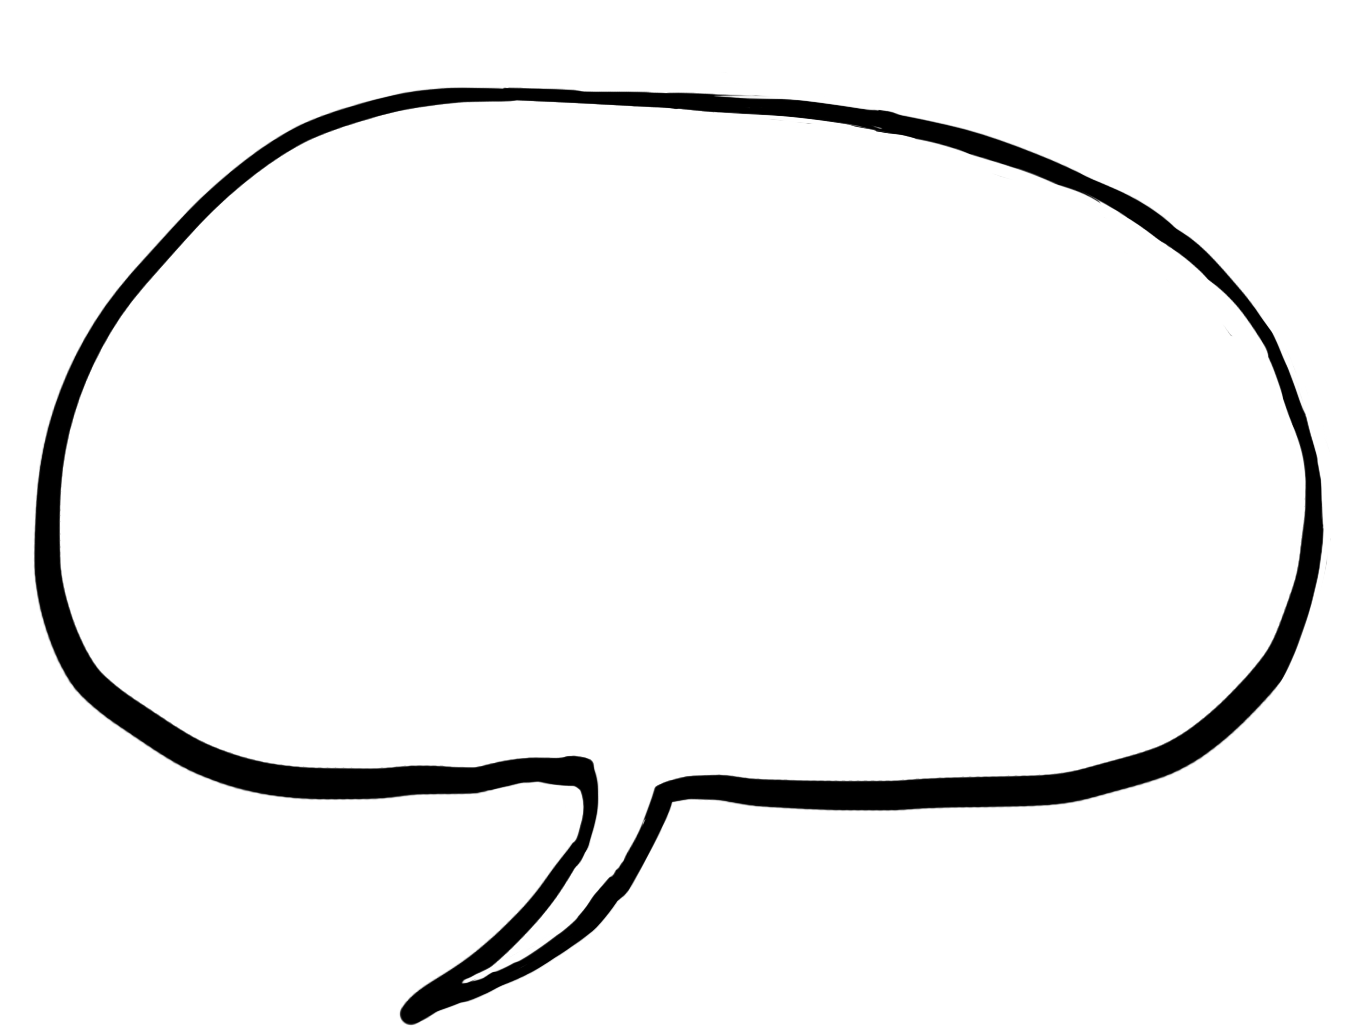
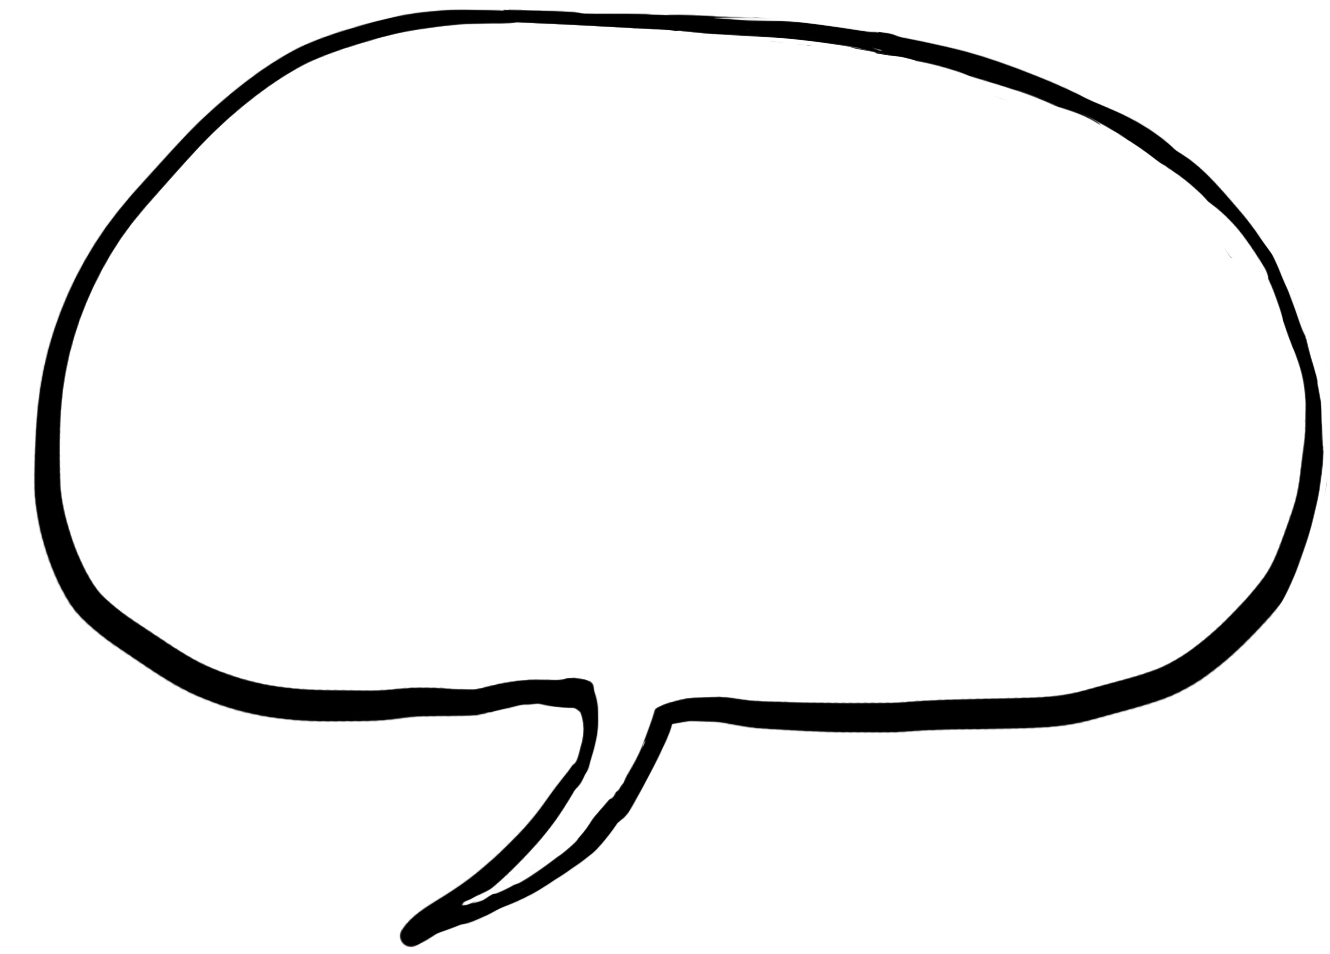
fix design

diff --git a/src/app/(pages)/about/page.tsx b/src/app/(pages)/about/page.tsx
@@ -1,153 +1,88 @@
 'use client';
 
-import Image from 'next/image';
-import { useEffect, useRef } from 'react';
+import Image, { ImageProps } from 'next/image';
+import { useEffect, useRef, useState } from 'react';
 import { useTranslation, Trans } from 'react-i18next';
 import removeContextMenu from '../../../utils/removeContextMenu';
+import StaticImageSlider from '@/components/StaticImageSlider';
+import useViewportWidth from '@/hooks/useViewportWidth';
+import { mobileBreakpoint } from '@/config/config';
 
-const dwarfCtnTop = 40;
-const dwarfCtnHeight = 2000;
-const bubbleWrapperHeight = 1000;
-const bubbleHeight = 400;
-const bubbleTop = 10;
-const bubble2CtnTop = bubbleWrapperHeight;
-const mainCtnHeight = bubbleWrapperHeight * 2 + bubbleHeight;
+interface aboutSectionDrawsType extends ImageProps {
+  text: React.ReactNode;
+}
+
+const aboutSectionDraws: aboutSectionDrawsType[] = [
+  {
+    src: '/about/lutin.png',
+    alt: 'lutin poilu au chapeau pointu tenant un crayon',
+    width: 1323,
+    height: 1389,
+    text: (
+      <Trans
+        i18nKey="common:about.bubble1"
+        components={{ break: <br />, strong: <strong /> }}
+      />
+    ),
+  },
+  {
+    src: '/about/lutin.png',
+    alt: 'lutin poilu au chapeau pointu tenant un crayon',
+    width: 1323,
+    height: 1389,
+    text: (
+      <Trans
+        i18nKey="common:about.bubble2"
+        components={{ strong: <strong /> }}
+      />
+    ),
+  },
+];
 
 const About: React.FC = () => {
-  const bubble1Ref = useRef<HTMLDivElement | null>(null);
-  const bubble2Ref = useRef<HTMLDivElement | null>(null);
-  const dwarfRef = useRef<HTMLDivElement | null>(null);
-
   useTranslation();
+  const windowWidth = useViewportWidth();
 
-  useEffect(() => {
-    const observer = new IntersectionObserver(
-      (entries) => {
-        entries.forEach((entry, i) => {
-          if (entry.isIntersecting) {
-            entry.target.classList.add('in-view');
-          } else {
-            entry.target.classList.remove('in-view');
-          }
-          if (dwarfRef.current) {
-            if (bubble1Ref.current?.classList.contains('in-view')) {
-              dwarfRef.current.classList.remove('dwarf-right');
-              dwarfRef.current.classList.add('dwarf-left');
-            }
-            if (bubble2Ref.current?.classList.contains('in-view')) {
-              dwarfRef.current.classList.remove('dwarf-left');
-              dwarfRef.current.classList.add('dwarf-right');
-            }
-            if (
-              !bubble1Ref.current?.classList.contains('in-view') &&
-              !bubble2Ref.current?.classList.contains('in-view')
-            ) {
-              dwarfRef.current.classList.remove('dwarf-left');
-              dwarfRef.current.classList.remove('dwarf-right');
-            }
-          }
-        });
-      },
-      // { root: null, rootMargin: '-10% 100% -40% 100%', threshold: 1.0 }
-      { root: null, rootMargin: '0% 100% -20% 100%', threshold: 1.0 }
+  const drawsComponents = aboutSectionDraws.map((draw, i) => {
+    return (
+      <div className="h-full relative flex lg:justify-center items-end">
+        <Image
+          key={i}
+          {...draw}
+          // className="size-full object-contain"
+          className="h-[45%] sm:h-2/3 w-auto"
+          onContextMenu={removeContextMenu}
+          quality={100}
+        />
+        <div className="absolute top-0 right-0 w-[380px] sm:w-[450px] lg:w-[400px] h-[280px] sm:h-[330px] lg:h-[300px] px-4 sm:px-6 pb-24 pt-9 sm:pt-7 flex justify-center items-center bg-[url('/about/bulle1.png')] bg-contain bg-center bg-no-repeat">
+          <p className="licorice-font text-3xl sm:text-4xl lg:text-3xl font-semibold text-center text-pretty">
+            {draw.text}
+          </p>
+        </div>
+      </div>
     );
-
-    if (bubble1Ref.current) {
-      observer.observe(bubble1Ref.current);
-    }
-    if (bubble2Ref.current) {
-      observer.observe(bubble2Ref.current);
-    }
-
-    return () => {
-      if (bubble1Ref.current) {
-        observer.unobserve(bubble1Ref.current);
-      }
-      if (bubble2Ref.current) {
-        observer.unobserve(bubble2Ref.current);
-      }
-    };
-  }, []);
+  });
 
   return (
-    <div
-      className="relative flex justify-center"
-      style={{
-        height: `${mainCtnHeight}px`,
-      }}
-    >
-      <div
-        ref={dwarfRef}
-        className="absolute w-1/4 min-w-60 max-w-80 flex justify-center transition-transform duration-300"
-        style={{
-          top: `${dwarfCtnTop}vh`,
-          height: `${dwarfCtnHeight}px`,
-        }}
-      >
-        <div
-          className="sticky h-96 flex justify-center items-center"
-          style={{
-            top: `${dwarfCtnTop}vh`,
-          }}
-        >
-          <Image
-            src="/about/lutin.png"
-            alt="lutin poilu au chapeau pointu tenant un crayon"
-            width={1323}
-            height={1389}
-            className="size-full object-contain"
-            onContextMenu={removeContextMenu}
-          />
-        </div>
-      </div>
-      <div
-        className="absolute right-64 sm:right-40 lg:right-20 xl:right-0 w-1/2"
-        style={{
-          top: `${bubbleTop}vh`,
-          height: `${bubbleWrapperHeight}px`,
-        }}
-      >
-        {/* translate-x-12 */}
-        <div
-          ref={bubble1Ref}
-          className="sticky out-view w-[524px] scale-bubble mr-auto px-20 pt-20 pb-28 xl:px-16 xl:pt-12 flex justify-center items-center bg-[url('/about/bulle1.png')] bg-contain bg-center bg-no-repeat"
-          style={{ top: `${bubbleTop}vh`, height: `${bubbleHeight}px` }}
-        >
-          <p className="licorice-font text-4.5xl xl:text-4xl font-semibold text-center text-pretty">
-            <Trans
-              i18nKey="common:about.bubble1"
-              components={{ break: <br />, strong: <strong /> }}
-            />
-          </p>
-        </div>
-      </div>
-      <div
-        className="absolute -left-32 sm:left-0 w-[95%] sm:w-1/2"
-        style={{
-          top: `${bubble2CtnTop}px`,
-          height: `${bubbleWrapperHeight}px`,
-        }}
-      >
-        {/* -translate-x-40 */}
-        <div
-          ref={bubble2Ref}
-          className="sticky out-view w-[538px] scale-bubble ml-auto px-12 pt-16 pb-28 flex justify-center items-center bg-[url('/about/bulle2.png')] bg-contain bg-center bg-no-repeat"
-          style={{ top: `${bubbleTop}vh`, height: `${bubbleHeight}px` }}
-        >
-          <p className="licorice-font text-4.5xl xl:text-4xl font-semibold text-center text-pretty">
-            <Trans
-              i18nKey="common:about.bubble2"
-              components={{ strong: <strong /> }}
-            />
-          </p>
-        </div>
+    <div className="relative flex-1 max-sm:flex max-sm:flex-col">
+      <h1 className="text-6xl sm:text-6.5xl xl:text-7xl inspiration-font thickening-2 max-sm:ml-10">
+        Qui suis je ?
+      </h1>
+      <div className="relative sm:absolute sm:top-0 sm:left-1/2 sm:-translate-x-1/2 max-sm:flex-1 sm:h-full flex justify-center items-center">
+        {aboutSectionDraws.length > 0 && (
+          <StaticImageSlider
+            className="w-screen lg:w-[1000px] h-[430px] sm:h-[550px] lg:h-[430px]"
+            isArrowsVisible={aboutSectionDraws.length > 1}
+            arrowsPosition={
+              windowWidth < mobileBreakpoint ? 'under' : 'lateral'
+            }
+          >
+            {drawsComponents}
+          </StaticImageSlider>
+        )}
       </div>
     </div>
   );
 };
 
 export default About;
-
-// Pour la div contenant le background bulle, mettre des dimensions en px (ou em?) qui correspondent à l'aspect ratio de la bulle
-// Background bulle bg-contain
-// Top en vh pour que les éléments soient tjs à la même hauteur quelle que soit la hauteur de l'écran

diff --git a/src/components/StaticImageSlider.tsx b/src/components/StaticImageSlider.tsx
@@ -1,0 +1,65 @@
+import React, { useState } from 'react';
+import ArrowBtn from './ArrowBtn';
+
+type StaticImageSliderProps = {
+  children: React.ReactNode;
+  className?: string;
+  isArrowsVisible?: boolean;
+  arrowsPosition?: 'lateral' | 'under';
+};
+
+const StaticImageSlider: React.FC<StaticImageSliderProps> = ({
+  children,
+  className = '',
+  isArrowsVisible = true,
+  arrowsPosition = 'lateral',
+}) => {
+  const [activeIndex, setActiveIndex] = useState(0);
+  const totalSlides = React.Children.count(children);
+
+  const handleNext = () => setActiveIndex((prev) => (prev + 1) % totalSlides);
+  const handlePrev = () =>
+    setActiveIndex((prev) => (prev - 1 + totalSlides) % totalSlides);
+
+  return (
+    <div className={`flex items-center justify-between`}>
+      {/* Left arrow */}
+      {isArrowsVisible && (
+        <ArrowBtn
+          onClick={handlePrev}
+          className={`${
+            arrowsPosition === 'under' ? 'absolute bottom-0 left-1/4' : ''
+          } w-[10%] h-20 flex items-center justify-center opacity-70 transition hover:scale-110 hover:opacity-90 duration-300 cursor-pointer`}
+          ariaLabel="Previous slide"
+        />
+      )}
+
+      <div className={`${className}`}>
+        {React.Children.map(children, (child, index) => (
+          <div
+            className={`${arrowsPosition === 'under' ? 'h-[90%]' : 'h-full'}`}
+            style={{
+              display: index === activeIndex ? 'block' : 'none',
+              transition: 'opacity 0.5s ease-in-out',
+            }}
+          >
+            {child}
+          </div>
+        ))}
+      </div>
+
+      {/* Right arrow */}
+      {isArrowsVisible && (
+        <ArrowBtn
+          onClick={handleNext}
+          className={`${
+            arrowsPosition === 'under' ? 'absolute bottom-0 right-1/4' : ''
+          } w-[10%] h-20 rotate-180 flex items-center justify-center opacity-70 transition hover:scale-110 hover:opacity-90 duration-300 cursor-pointer`}
+          ariaLabel="Previous slide"
+        />
+      )}
+    </div>
+  );
+};
+
+export default StaticImageSlider;

diff --git a/src/components/GallerySlider.tsx b/src/components/GallerySlider.tsx
@@ -1,17 +1,10 @@
-import Image from 'next/image';
+import Image, { ImageProps } from 'next/image';
 import { useState } from 'react';
 import Loader from './Loader';
 import removeContextMenu from '../utils/removeContextMenu';
 
-type DrawType = {
-  src: string;
-  alt: string;
-  width: number;
-  height: number;
-};
-
 type GallerySliderProps = {
-  activeDraw: DrawType;
+  activeDraw: ImageProps;
   slideDuration?: number;
   changePrevIdx: () => void;
   changeNextIdx: () => void;
@@ -55,8 +48,8 @@ const GallerySlider: React.FC<GallerySliderProps> = ({
         className="w-[10%] rotate-180 bg-[length:45px_45px] bg-no-repeat bg-center transition-opacity opacity-60 hover:opacity-100 duration-300 cursor-pointer"
         style={{ backgroundImage: `url(${arrowIconUri})` }}
         onClick={() => handlePrev()}
-        aria-label="next image"
-      ></button>
+        aria-label="prev image"
+      />
       <div
         className={`w-4/5 my-8 transition ${`duration-${slideDuration}`} ${
           isTransitioning ? 'opacity-0' : 'opacity-100'
@@ -75,7 +68,7 @@ const GallerySlider: React.FC<GallerySliderProps> = ({
         style={{ backgroundImage: `url(${arrowIconUri})` }}
         onClick={() => handleNext()}
         aria-label="next image"
-      ></button>
+      />
     </div>
   );
 };

diff --git a/src/components/ArrowBtn.tsx b/src/components/ArrowBtn.tsx
@@ -1,0 +1,50 @@
+import React from 'react';
+
+interface ArrowBtnProps extends React.ButtonHTMLAttributes<HTMLButtonElement> {
+  ariaLabel: string;
+}
+
+const ArrowBtn: React.FC<ArrowBtnProps> = ({
+  onClick,
+  ariaLabel,
+  className,
+  ...rest
+}) => {
+  return (
+    <button
+      onClick={onClick}
+      className={className}
+      aria-label={ariaLabel}
+      {...rest}
+    >
+      <svg
+        xmlns="http://www.w3.org/2000/svg"
+        viewBox="0 0 100 60"
+        fill="none"
+        stroke="#555555"
+        strokeWidth="3"
+        strokeLinecap="round"
+        strokeLinejoin="round"
+      >
+        <defs>
+          <linearGradient id="grad1" x1="0%" y1="0%" x2="100%" y2="100%">
+            <stop
+              offset="0%"
+              style={{ stopColor: '#F59E0B', stopOpacity: 1 }}
+            />
+            <stop
+              offset="100%"
+              style={{ stopColor: '#F59E0B', stopOpacity: 1 }}
+            />
+          </linearGradient>
+        </defs>
+        <path
+          d="M10 30 Q 30 10, 70 10 Q 90 30, 70 50 Q 30 50, 10 30 Z"
+          fill="url(#grad1)"
+        />
+      </svg>
+    </button>
+  );
+};
+
+export default ArrowBtn;

diff --git a/src/app/(pages)/layout.tsx b/src/app/(pages)/layout.tsx
@@ -16,8 +16,8 @@ const Layout = ({
   const hideScrollButton = pathname === '/shopping-cart';
 
   return (
-    <div className="min-h-screen flex flex-col page-pt px-2 md:px-10 xl:px-24 md:pb-10 xl:pb-16 border-b-2 border-surface-300">
-      <div className="flex-1 flex flex-col gap-24 mx-1 sm:mx-4 lg:mx-6 xl:mx-12 2xl:mx-24 3xl:mx-56 mt-10 3xl:mt-16 mb-32 sm:mb-24">
+    <div className="min-h-screen flex flex-col page-pt px-2 md:px-10 xl:px-24 md:pb-10 border-b-2 border-surface-300">
+      <div className="flex-1 flex flex-col gap-24 mx-1 sm:mx-4 lg:mx-6 xl:mx-12 2xl:mx-24 3xl:mx-56 mt-5 sm:mt-10 3xl:mt-16 mb-32 sm:mb-24">
         {children}
       </div>
       <AnimatePresence>
